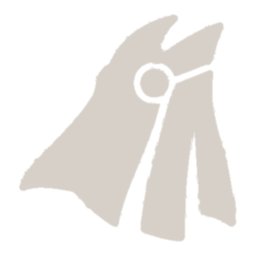
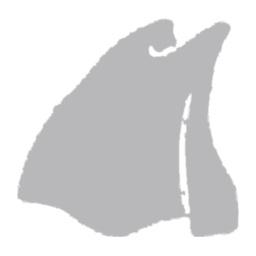
Slot marks from the owner's second sheet, in neutral grey
The extraction script takes the sheet's order, crops each mark to its cleaned shape and
tints it a single neutral grey; the wider figure now reaches the side wells like the game's.

diff --git a/scripts/import-slot-marks.py b/scripts/import-slot-marks.py
@@ -1,8 +1,8 @@
 """Extract the owner's loadout slot marks from the supplied sheet into transparent PNGs.
 
-Usage: python3 scripts/import-slot-marks.py <sheet.png>
-The sheet carries six light marks on black (bag, figure, cape / potion, food, mount) with
-speckle; each is isolated as the largest connected shapes, small holes are filled, the
+Usage: python3 scripts/import-slot-marks.py <sheet.png> [bag,figure,cape,potion,mount,food]
+The sheet carries six light marks on black (two rows of three, named left to right, top
+row first; the default order is bag, figure, cape, potion, mount, food) with speckle; each is isolated as the largest connected shapes, small holes are filled, the
 outline is smoothed and the result is saved as a 256px RGBA mark in public/albion/slots.
 """
 import sys
@@ -12,12 +12,13 @@ from PIL import Image
 from scipy import ndimage
 
 sheet = Path(sys.argv[1])
+order = (sys.argv[2] if len(sys.argv) > 2 else "bag,figure,cape,potion,mount,food").split(",")
 out = Path("public/albion/slots")
 out.mkdir(parents=True, exist_ok=True)
 a = np.asarray(Image.open(sheet).convert("RGB")).astype(float)
-mask = a.sum(axis=2) / 3 > 120
-lab, n = ndimage.label(ndimage.binary_closing(mask, iterations=2))
-sizes = ndimage.sum(lab > 0, lab, range(1, n + 1))
+mask = a.sum(axis=2) / 3 > 110
+lab, n = ndimage.label(ndimage.binary_closing(mask, iterations=3))
+sizes = ndimage.sum(mask, lab, range(1, n + 1))
 keep = np.argsort(sizes)[::-1][:6] + 1
 objs = ndimage.find_objects(lab)
 mid = a.shape[0] / 2
@@ -25,15 +26,20 @@ items = sorted(
     [(k, objs[k - 1]) for k in keep],
     key=lambda kv: ((kv[1][0].start + kv[1][0].stop) / 2 > mid, (kv[1][1].start + kv[1][1].stop) / 2),
 )
-for (k, sl), name in zip(items, ["bag", "figure", "cape", "potion", "food", "mount"]):
-    comp = (lab == k).astype(float)
-    filled = ndimage.binary_fill_holes(comp > 0.5)
-    holes = filled & ~(comp > 0.5)
+for (k, sl), name in zip(items, order):
+    bright = a.sum(axis=2) / 3
+    comp = (lab == k) & (bright > 110) & (bright < 236)
+    cl, cn = ndimage.label(comp)
+    cs = ndimage.sum(comp, cl, range(1, cn + 1))
+    comp = np.isin(cl, [i + 1 for i, s in enumerate(cs) if s > 400])
+    filled = ndimage.binary_fill_holes(comp)
+    holes = filled & ~comp
     hl, hn = ndimage.label(holes)
     hs = ndimage.sum(holes, hl, range(1, hn + 1))
-    comp = np.where(np.isin(hl, [i + 1 for i, s in enumerate(hs) if s < 900]), 1.0, comp)
-    comp = (ndimage.gaussian_filter(comp, sigma=3.0) > 0.5).astype(float)
-    comp = ndimage.gaussian_filter(comp, sigma=1.2)
+    comp = comp | np.isin(hl, [i + 1 for i, s in enumerate(hs) if s < 60])
+    ys, xs = np.where(comp)
+    sl = (slice(ys.min(), ys.max() + 1), slice(xs.min(), xs.max() + 1))
+    comp = ndimage.gaussian_filter(comp.astype(float), sigma=1.0)
     sub = comp[sl]
     h, w = sub.shape
     pad = int(max(h, w) * 0.08)
@@ -42,7 +48,7 @@ for (k, sl), name in zip(items, ["bag", "figure", "cape", "potion", "food", "mou
     y0, x0 = (size - h) // 2, (size - w) // 2
     canvas[y0 : y0 + h, x0 : x0 + w] = sub
     alpha = Image.fromarray((np.clip(canvas, 0, 1) * 255).astype(np.uint8)).resize((256, 256), Image.LANCZOS)
-    rgba = Image.new("RGBA", (256, 256), (214, 208, 200, 0))
+    rgba = Image.new("RGBA", (256, 256), (184, 184, 186, 0))
     rgba.putalpha(alpha)
     rgba.save(out / f"{name}.png", optimize=True)
     print(name, sub.shape)
